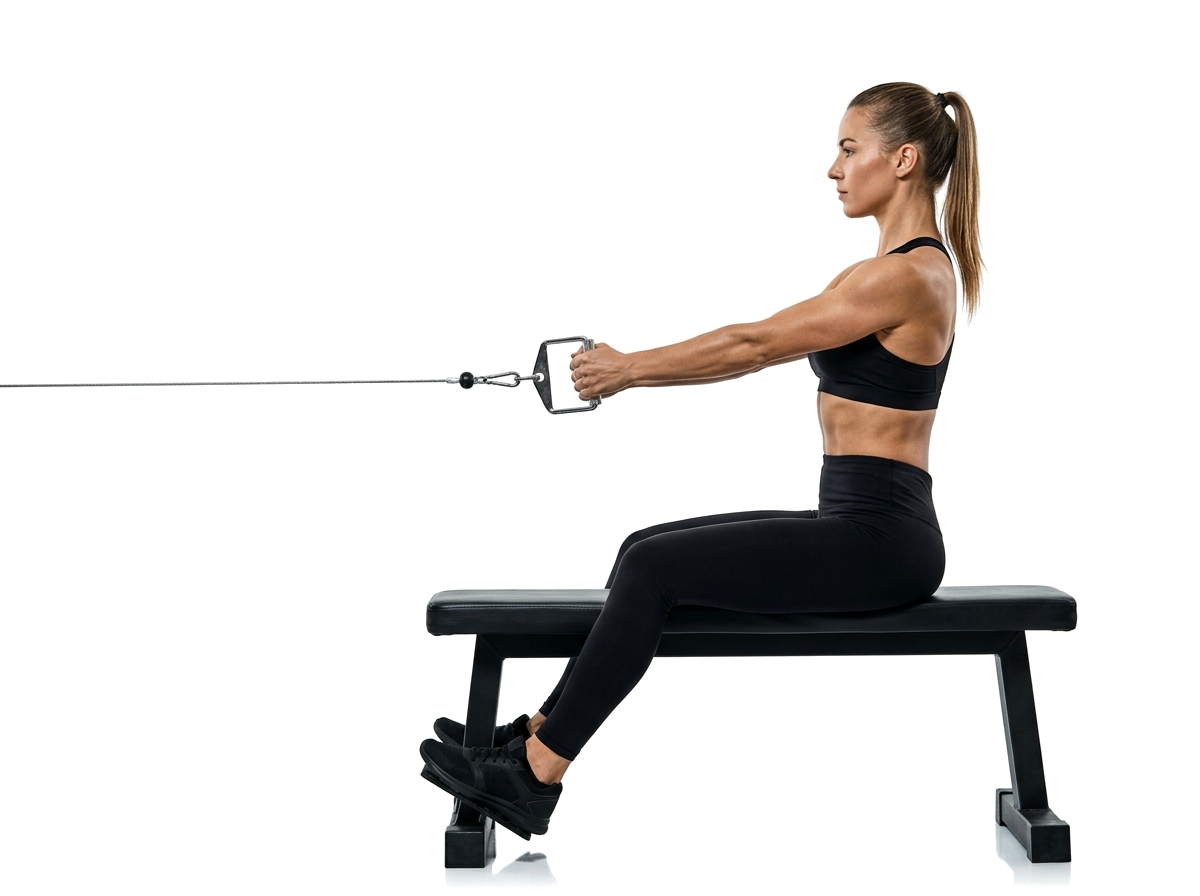
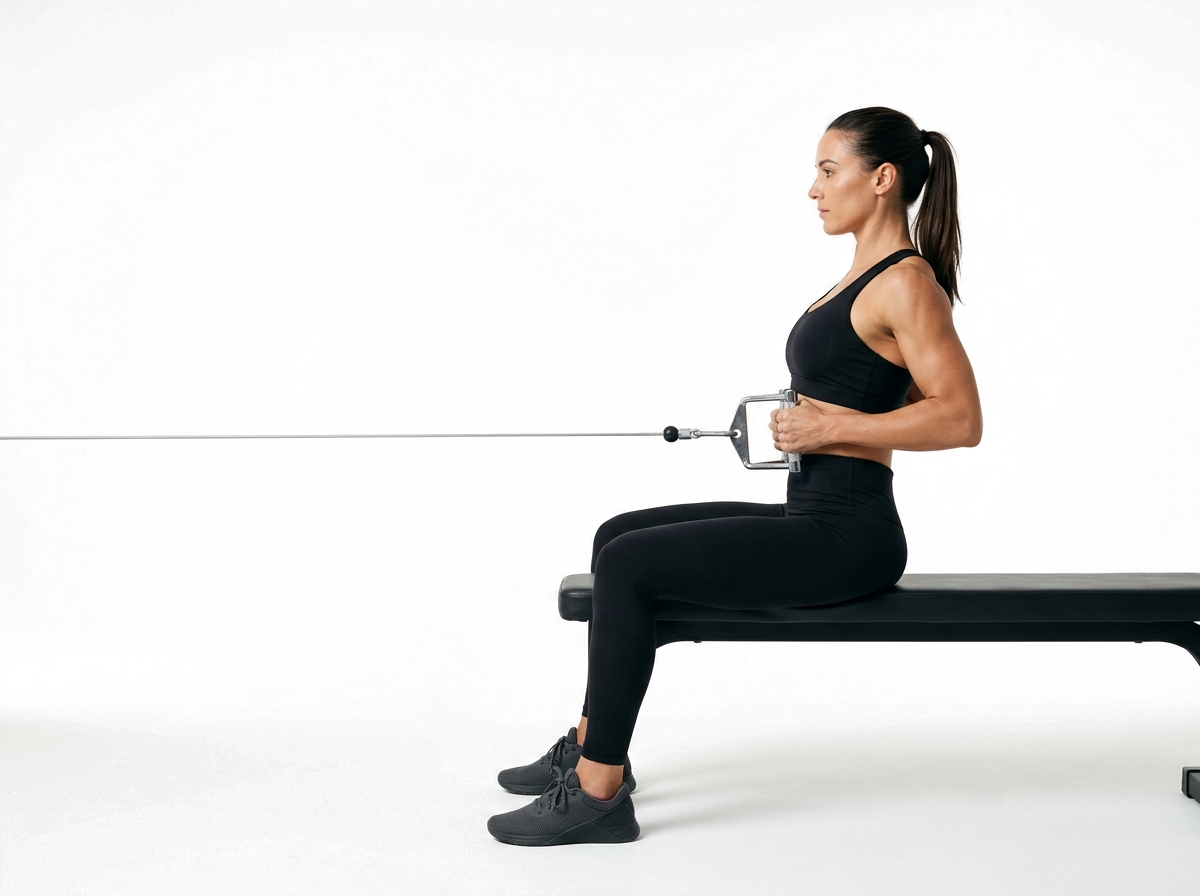
feat(hero): update trainer image to contracted row and fix mobile button width

Changed region(s): [[0.0, 0.0938, 1.0, 1.0], [0.0, 0.8125, 0.0308, 0.8438]]

diff --git a/css/styles.css b/css/styles.css
@@ -2102,8 +2102,8 @@ textarea.form-control {
   }
 
   .hero>.container {
-    padding-left: 5px;
-    padding-top: 5px;
+    padding-left: 0.85rem;
+    padding-top: 0.25rem;
     padding-right: 0.85rem;
     margin-left: 0;
     margin-right: auto;
@@ -2149,7 +2149,7 @@ textarea.form-control {
   }
 
   .hero-left {
-    padding: 5px 0 0 5px;
+    padding: 0;
     width: 100%;
     max-width: 100%;
     display: flex;
@@ -2165,22 +2165,22 @@ textarea.form-control {
     display: block;
     position: absolute;
     bottom: 0;
-    right: -15vw;
-    height: 76vh;
-    max-height: 680px;
-    min-height: 460px;
+    right: -10vw;
+    height: 80vh;
+    max-height: 720px;
+    min-height: 480px;
     width: auto;
     max-width: 140vw;
     object-fit: contain;
     object-position: bottom right;
     z-index: 1;
     pointer-events: none;
-    transform: scale(1.2);
+    transform: scale(1.15);
     transform-origin: bottom right;
   }
 
   .hero-location-tag {
-    font-size: 0.72rem;
+    font-size: 0.74rem;
     margin-bottom: 0.25rem;
     text-align: left;
     justify-content: flex-start;
@@ -2213,24 +2213,25 @@ textarea.form-control {
     justify-content: flex-start;
     align-self: flex-start;
     width: 100%;
-    max-width: 175px;
+    max-width: 195px;
     gap: 0.35rem;
-    margin-bottom: 0.5rem;
+    margin-bottom: 0.55rem;
   }
 
   .hero-cta-group .btn {
     white-space: nowrap;
     width: 100%;
-    min-height: 36px;
-    height: 36px;
+    min-height: 38px;
+    height: 38px;
     font-size: 0.74rem;
     font-weight: 800;
-    padding: 0.3rem 0.75rem;
+    padding: 0.35rem 0.85rem;
     border-radius: var(--radius-full);
     display: inline-flex;
     align-items: center;
     justify-content: center;
     gap: 0.35rem;
+    box-sizing: border-box;
   }
 
   .hero-cta-group .btn-outline {
@@ -2246,7 +2247,7 @@ textarea.form-control {
     gap: 0.28rem;
     padding-top: 0.4rem;
     width: auto;
-    max-width: 46%;
+    max-width: 48%;
     border-top: 1.5px solid var(--border-light);
     text-align: left;
   }
